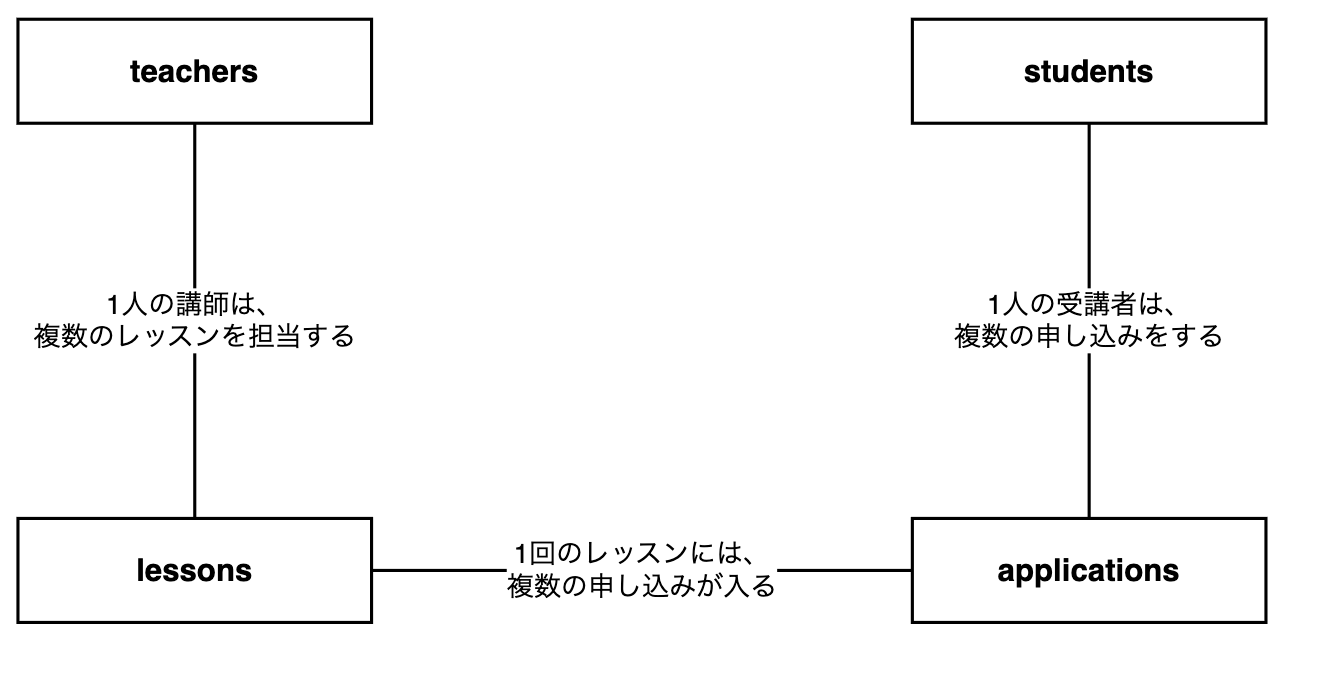
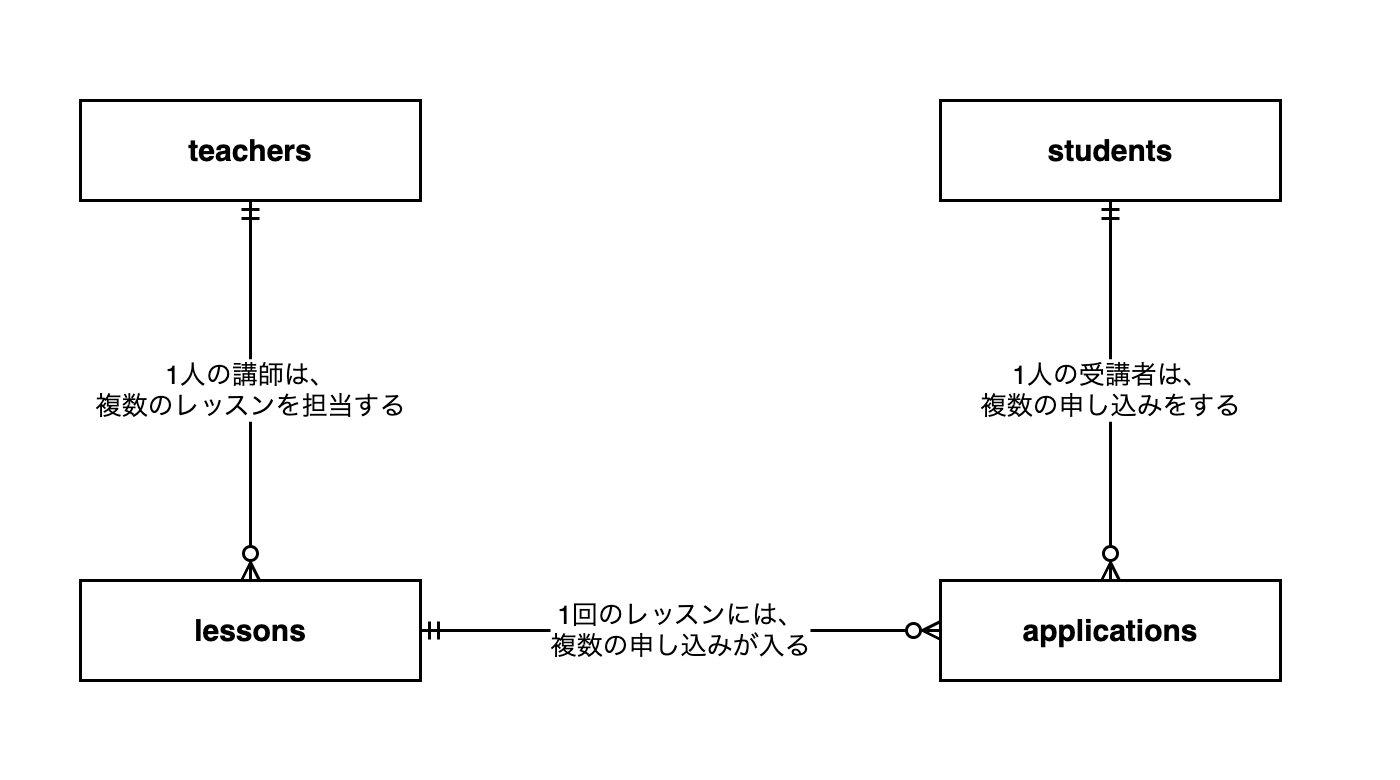
作図: ER図の多重度をMermaidと同じ記号で描くようにした
指摘: 記号なしで線の上の文章だけではER図として成立せず、T14で使う
Mermaid の描画とも食い違う。

- draw.io の ER 用の線端を使う（ERmandOne = 二重線 = ちょうど1、
  ERzeroToMany = 丸＋枝分かれ = 0以上）。Mermaid の ||--o{ と同じ見た目
- render_drawio.py に透明な余白枠を足す処理を入れ、線端の記号が
  見切れないようにした
- guides/design-section-structure.md に「記号を省かない」ルールを明記

これで T13（draw.io）と T14（Mermaid）で図の読み方が変わらなくなる。
13-5-2 にあった「教材の図はIE記法で、皆さんが描く図とは見た目が違います」
という但し書きは、本文改稿時に削除する（draw.io でも同じ記号を出せるため）。

diff --git a/.claude/scripts/render_drawio.py b/.claude/scripts/render_drawio.py
@@ -30,7 +30,7 @@ import sys
 import urllib.parse
 from pathlib import Path
 
-MARGIN = 60  # 図の周囲に残す余白（描画後の px）
+MARGIN = 100  # 図の周囲に残す余白（描画後の px。線端の記号がはみ出す分を含む）
 
 GEOMETRY_ATTRS = ("x", "y", "width", "height")
 SCALED_STYLE_KEYS = ("fontSize", "strokeWidth")
@@ -92,6 +92,36 @@ def content_size(xml: str) -> tuple[float, float]:
     return max(xs) - min(xs), max(ys) - min(ys)
 
 
+def add_padding(xml: str, margin: float) -> str:
+    """図全体を囲む透明な四角を1つ足して、線端の記号が見切れないようにする。
+
+    draw.io は図形の外接矩形に合わせて描画位置を決めるため、線端の ER 記号が
+    図形の外へはみ出すぶんだけ左右が切れる。透明な枠を置いて外接矩形を広げる。
+    """
+    xs: list[float] = []
+    ys: list[float] = []
+    for m in re.finditer(r"<mxGeometry\b[^>]*/?>", xml):
+        tag = m.group(0)
+        if 'as="geometry"' not in tag:
+            continue
+        x = re.search(r'\bx="(-?[\d.]+)"', tag)
+        y = re.search(r'\by="(-?[\d.]+)"', tag)
+        w = re.search(r'\bwidth="(-?[\d.]+)"', tag)
+        h = re.search(r'\bheight="(-?[\d.]+)"', tag)
+        if x and w:
+            xs.extend([float(x.group(1)), float(x.group(1)) + float(w.group(1))])
+        if y and h:
+            ys.extend([float(y.group(1)), float(y.group(1)) + float(h.group(1))])
+    pad = (
+        f'<mxCell id="__pad" value="" '
+        f'style="rounded=0;fillColor=none;strokeColor=none;" vertex="1" parent="1">'
+        f'<mxGeometry x="{min(xs) - margin:g}" y="{min(ys) - margin:g}" '
+        f'width="{max(xs) - min(xs) + margin * 2:g}" '
+        f'height="{max(ys) - min(ys) + margin * 2:g}" as="geometry" /></mxCell>'
+    )
+    return xml.replace("</root>", pad + "</root>", 1)
+
+
 def main() -> int:
     ap = argparse.ArgumentParser()
     ap.add_argument("source", help=".drawio ファイル")
@@ -108,6 +138,7 @@ def main() -> int:
 
     w, h = content_size(xml)
     xml = scale_styles(scale_geometry(xml, args.scale), args.scale)
+    xml = add_padding(xml, MARGIN)
 
     url = (
         "https://app.diagrams.net/?splash=0&ui=min&chrome=0#R"

diff --git a/guides/design-section-structure.md b/guides/design-section-structure.md
@@ -234,7 +234,8 @@
 - **教材の図はすべて draw.io 由来の PNG** にする（読み方の実例・🏃の答え合わせ・📖の模範解答・概念説明図のすべて）
 - 作図ソース（`.drawio` の XML）を `image/diagram-src/` に保存する。修正は XML を編集して再書き出しする
 - PNGは既存の画像規約に従う（`{N}-{M}-{S}_{連番}.png`、`alt`にファイル名、`image/` に配置。`src`は執筆中は相対パス可・リリース時は空: `guides/writing-rules.md` 参照）
-- 書き出し手順: `.drawio` の XML を URL エンコードして `https://app.diagrams.net/?splash=0&ui=min#R{エンコード済みXML}` を開き、ブラウザ自動操作でスクリーンショットを撮る（`--force-device-scale-factor` 相当の 2倍解像度で撮る）。**本物の draw.io 描画がそのまま画像になる**ので、SVGで見た目を真似る必要はない
+- 書き出し手順: `python3 .claude/scripts/render_drawio.py <ソース>` で描画用URLとウィンドウサイズを得て、ブラウザ自動操作でスクリーンショットを撮る。`?chrome=0` でエディタのUIなしに描画される。スクリプトが座標・フォント・線幅を2倍に展開し、線端の記号が見切れないよう透明な余白枠も足す。**本物の draw.io 描画がそのまま画像になる**ので、SVGで見た目を真似る必要はない
+- **記号は Mermaid の描画と一致させる**。ER図の多重度は draw.io の ER 用の線端（`ERmandOne` = 二重線 ＝ ちょうど1、`ERzeroToMany` = 丸＋枝分かれ ＝ 0以上）を使い、Mermaid の `||--o{` と同じ見た目にする。T14でAIに Mermaid で描かせたとき、T13で見た図と読み方が変わらないようにするため。**記号を省いて線の上の文章だけで多重度を表さない**（ER図として成立しない）。線に添える文章は記号と併記する
 - **`.drawio` ファイルは答え合わせ素材として受講生に配ってよい**（自分の図の隣に開いて比べられる）
 - **既存の `.svg` ソース8本は変換の対象**。`image/diagram-src/` にはユースケース図・ワイヤーフレームを SVG で作図した旧方式のソースが残っている（旧規約は Chrome ヘッドレスで SVG→PNG を書き出していた）。T13の改稿時に `.drawio` へ作り直す。同ディレクトリの README も、その時点で書き換える
 - draw.ioの操作説明など「画面そのもの」を見せる箇所はスクリーンショット画像を使う。撮影も `app.diagrams.net` のブラウザ自動操作で行う（日本語UIのまま撮れる）
